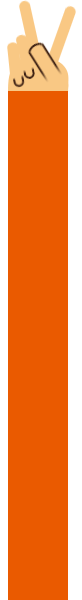
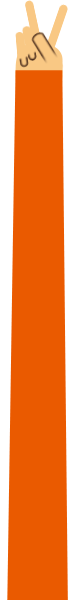
People generation, add granny

Changed region(s): [[0.0732, 0.0, 0.9268, 1.0], [0.0732, 0.93, 0.0976, 1.0]]

diff --git a/handshake.js b/handshake.js
@@ -60,6 +60,17 @@ window.onload = function() {
         };
     }
 
+    function newPerson(kind) {
+        var sprite = game.add.sprite(0, 0, kind);
+
+        sprite.anchor.setTo(0.3, 0.5);
+        sprite.setScaleMinMax(0.0, 0.0, 1.0, 1.0);
+        sprite.scale.setTo(0.2, 0.2);
+        game.physics.enable(sprite, Phaser.Physics.ARCADE);
+
+        return sprite;
+    }
+
     var people = {
         primary: {
             arm: newArm(PEOPLE_ARM_DEFAULT_ANGLE, PEOPLE_ARM_SHAKE_AMPLITUDE),
@@ -67,7 +78,7 @@ window.onload = function() {
             head: {},
             group: null
         },
-        queue: []
+        queue: null
     };
 
     var movingBusinessMan = {};
@@ -77,10 +88,14 @@ window.onload = function() {
     }
 
     function preload () {
-        game.load.image('businessman', 'assets/businessman/businessman-complete.png')
+
+        game.load.image('businessman', 'assets/businessman/businessman-complete.png');
         game.load.image('businessman-head', 'assets/businessman/head05.png');
         game.load.image('businessman-body', 'assets/businessman/businessman-body.png');
         game.load.image('businessman-arm', 'assets/businessman/businessman-arm-lower.png');
+
+        game.load.image('granny', 'assets/granny/granny-complete.png');
+
         game.load.image('arm', 'assets/hand/hand-paper.png');
         game.load.image('arm-scissor', 'assets/hand/hand-scissor.png');
         game.load.image('arm-stone', 'assets/hand/hand-stone.png');
@@ -93,13 +108,10 @@ window.onload = function() {
         game.scale.fullScreenScaleMode = Phaser.ScaleManager.SHOW_ALL;
 
         // BG people
-        movingBusinessMan.sprite = game.add.sprite(0, 0, 'businessman');
-        movingBusinessMan.sprite.anchor.setTo(0.3, 0.5);
-        movingBusinessMan.sprite.setScaleMinMax(0.0, 0.0, 1.0, 1.0);
-        movingBusinessMan.sprite.scale.setTo(0.2, 0.2);
+        people.queue = game.add.group();
+        people.queue.add(newPerson('granny'));
 
         // Primary person
-        //people.primary.group = game.add.group();
         people.primary.body.sprite = game.add.sprite(game.world.centerX, game.world.centerY, 'businessman-body');
         people.primary.body.sprite.anchor.setTo(0.5, 0.5 - (70.5 / 409.0)); //people.businessman.sprite.y += 70.5;
         people.primary.head.sprite = game.add.sprite(game.world.centerX, game.world.centerY, 'businessman-head');
@@ -119,7 +131,6 @@ window.onload = function() {
         setPrimaryVisible(true);
 
         // Physics
-        game.physics.enable(movingBusinessMan.sprite, Phaser.Physics.ARCADE);
         game.physics.enable(people.primary.arm.sprite, Phaser.Physics.ARCADE);
         game.physics.enable(arm.sprite, Phaser.Physics.ARCADE);
 
@@ -196,28 +207,31 @@ window.onload = function() {
     }
 
     function update() {
-        updateMovingBusinessMan();
+        updateQueuedPeople();
         updateArm();
     }
 
-    function updateMovingBusinessMan() {
-        if (movingBusinessMan.sprite.x < game.world.centerX) {
-            movingBusinessMan.sprite.body.velocity.x = 100;
+    function updateQueuedPeople() {
+        people.queue.forEach(updateBackgroundPerson, this);
+    }
+    function updateBackgroundPerson(sprite) {
+        if (sprite.x < game.world.centerX) {
+            sprite.body.velocity.x = 100;
         } else {
-            movingBusinessMan.sprite.body.velocity.x = 0;
+            sprite.body.velocity.x = 0;
         }
-        movingBusinessMan.sprite.body.velocity.y = 100;
+        sprite.body.velocity.y = 100;
 
-        let y = movingBusinessMan.sprite.y;
+        let y = sprite.y;
         let targetY = game.world.centerY;
 
         let distanceRatio = y / targetY;
 
         if (distanceRatio >= 1.0) {
-            movingBusinessMan.sprite.body.velocity.y = 0;
+            sprite.body.velocity.y = 0;
         }
 
-        movingBusinessMan.sprite.scale.setTo(distanceRatio, distanceRatio);
+        sprite.scale.setTo(distanceRatio, distanceRatio);
     }
 
     function resetArm() {
